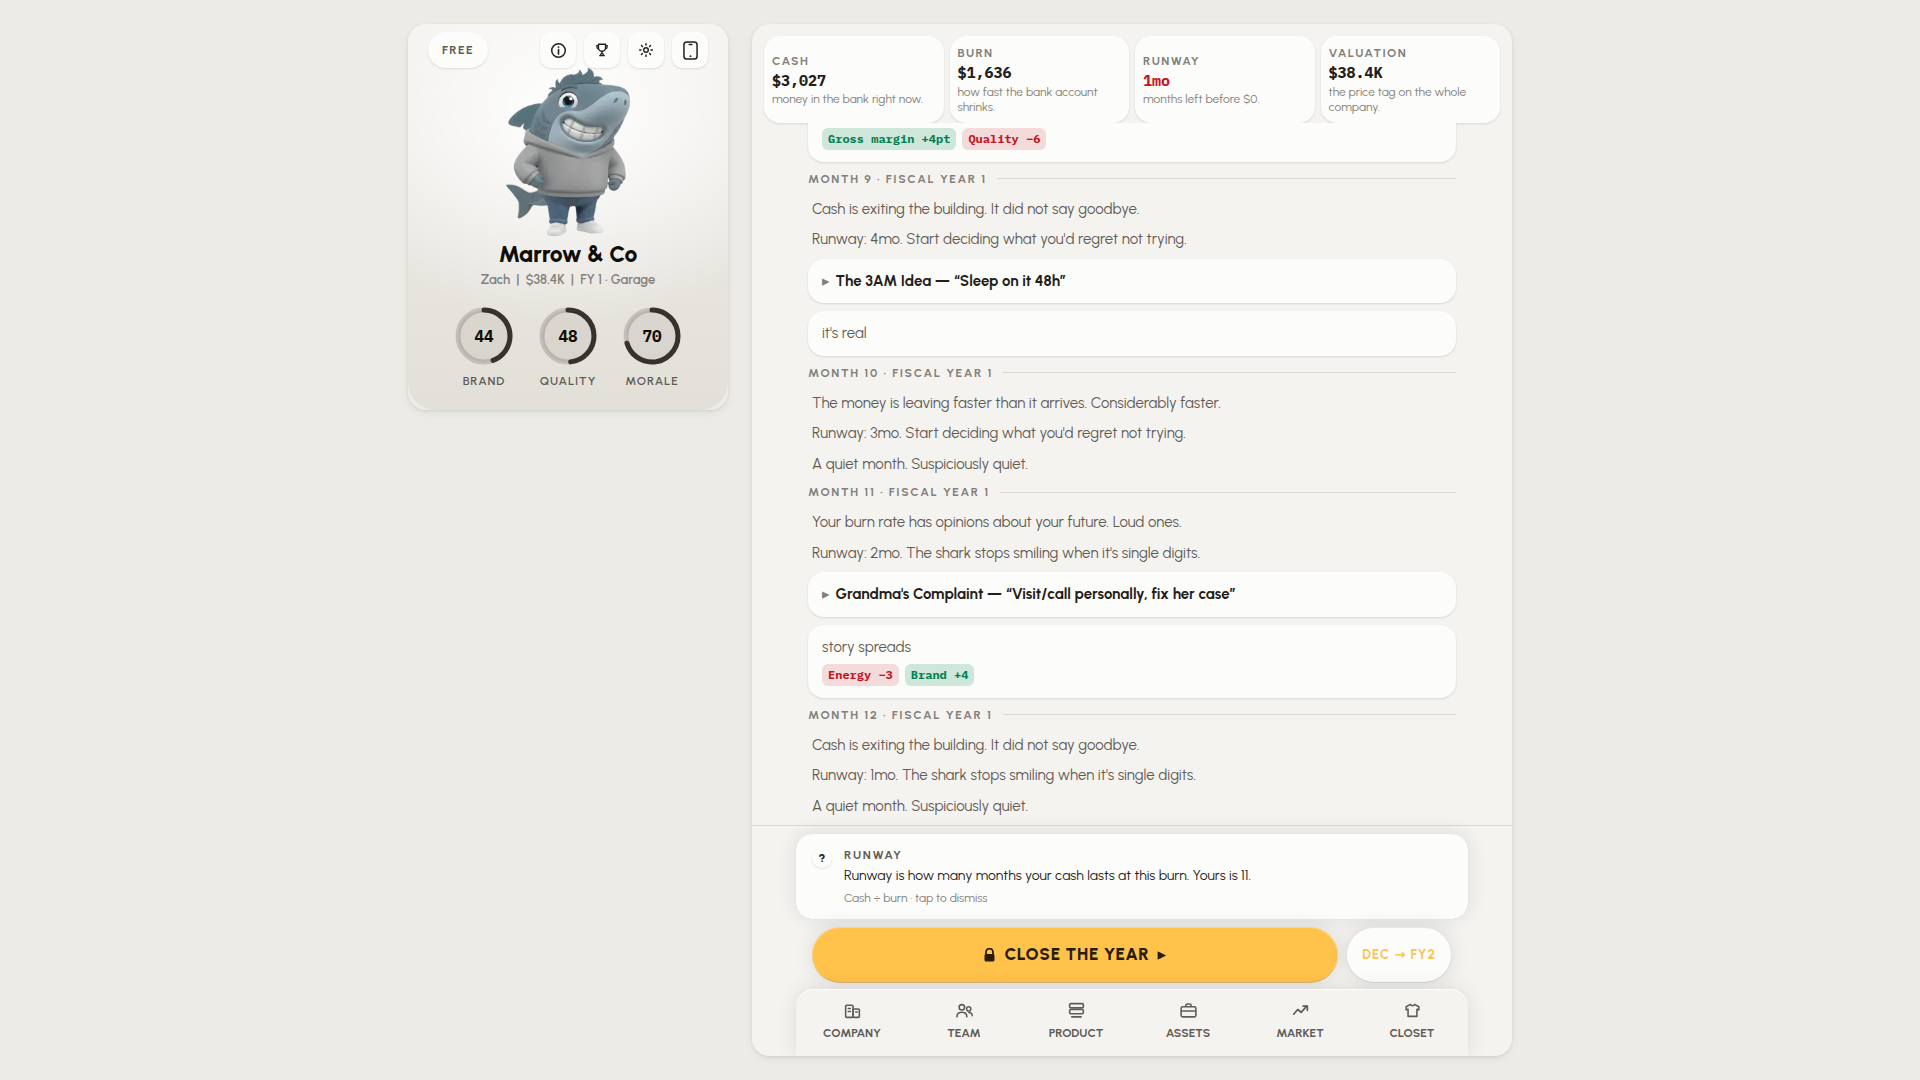
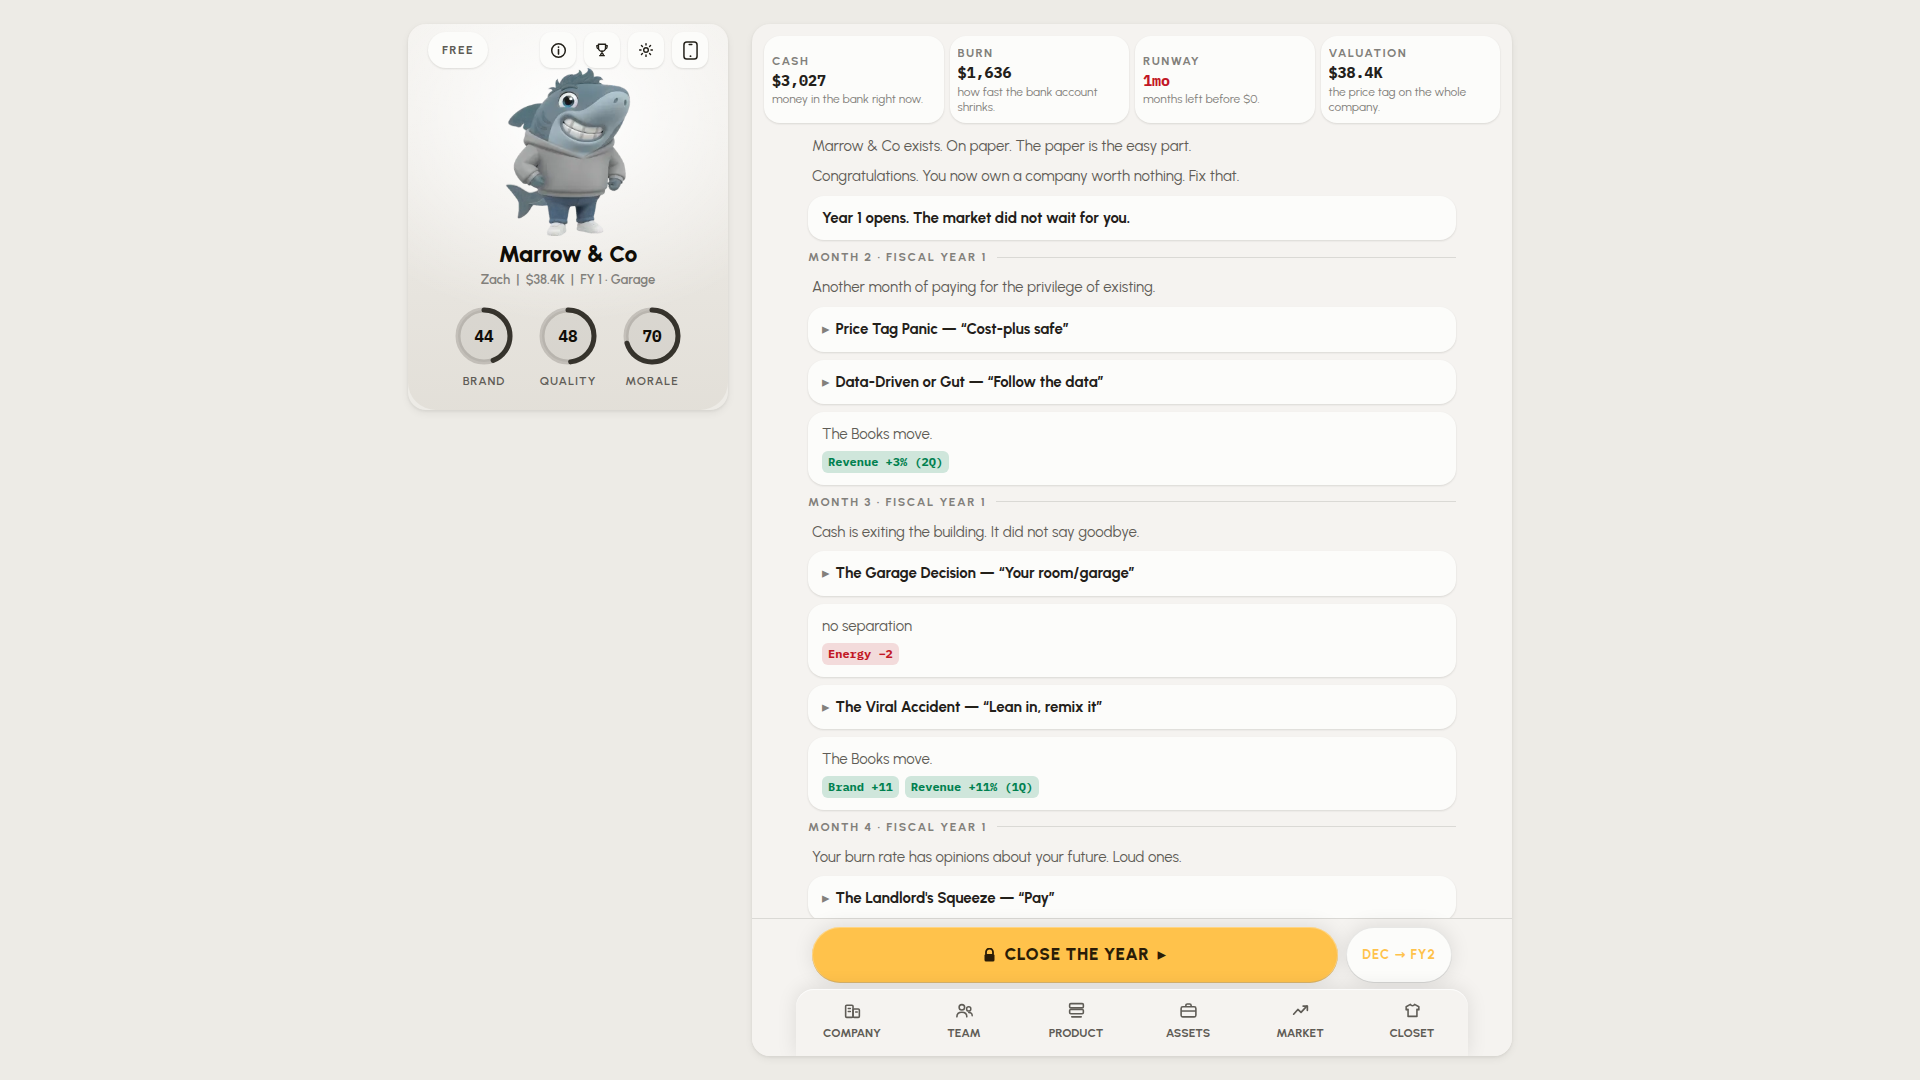
v3 frame 02-lectures rebuilt
Claude-Session: https://claude.ai/code/session_012WSLRAiC5KC4WJfQrtdvFq

Changed region(s): [[0.4062, 0.0917, 0.6562, 0.8556]]

diff --git a/videos/novus-launch/compositions/frames/01-bike.html b/videos/novus-launch/compositions/frames/01-bike.html
@@ -35,8 +35,8 @@
           <path   class="bike01-stroke" id="bike01-p-seatstay"  d="M 450 268 L 336 134"/>
           <path   class="bike01-stroke" id="bike01-p-headfork"  d="M 194 112 L 178 158 Q 166 214 120 268"/>
           <path   class="bike01-stroke" id="bike01-p-steer"     d="M 194 112 L 199 97 Q 202 86 190 82 L 158 76 Q 147 74 146 84"/>
-          <path   class="bike01-stroke" id="bike01-p-seatpost"  d="M 338 130 L 347 95"/>
-          <path   class="bike01-stroke" id="bike01-p-saddle"    d="M 318 90 Q 349 80 384 89"/>
+          <path   class="bike01-stroke" id="bike01-p-seatpost"  d="M 338 130 L 348 91"/>
+          <path   class="bike01-stroke" id="bike01-p-saddle"    d="M 314 96 Q 349 85 384 93"/>
           <circle class="bike01-stroke" id="bike01-p-crank"     cx="300" cy="285" r="15"/>
         </svg>
 
